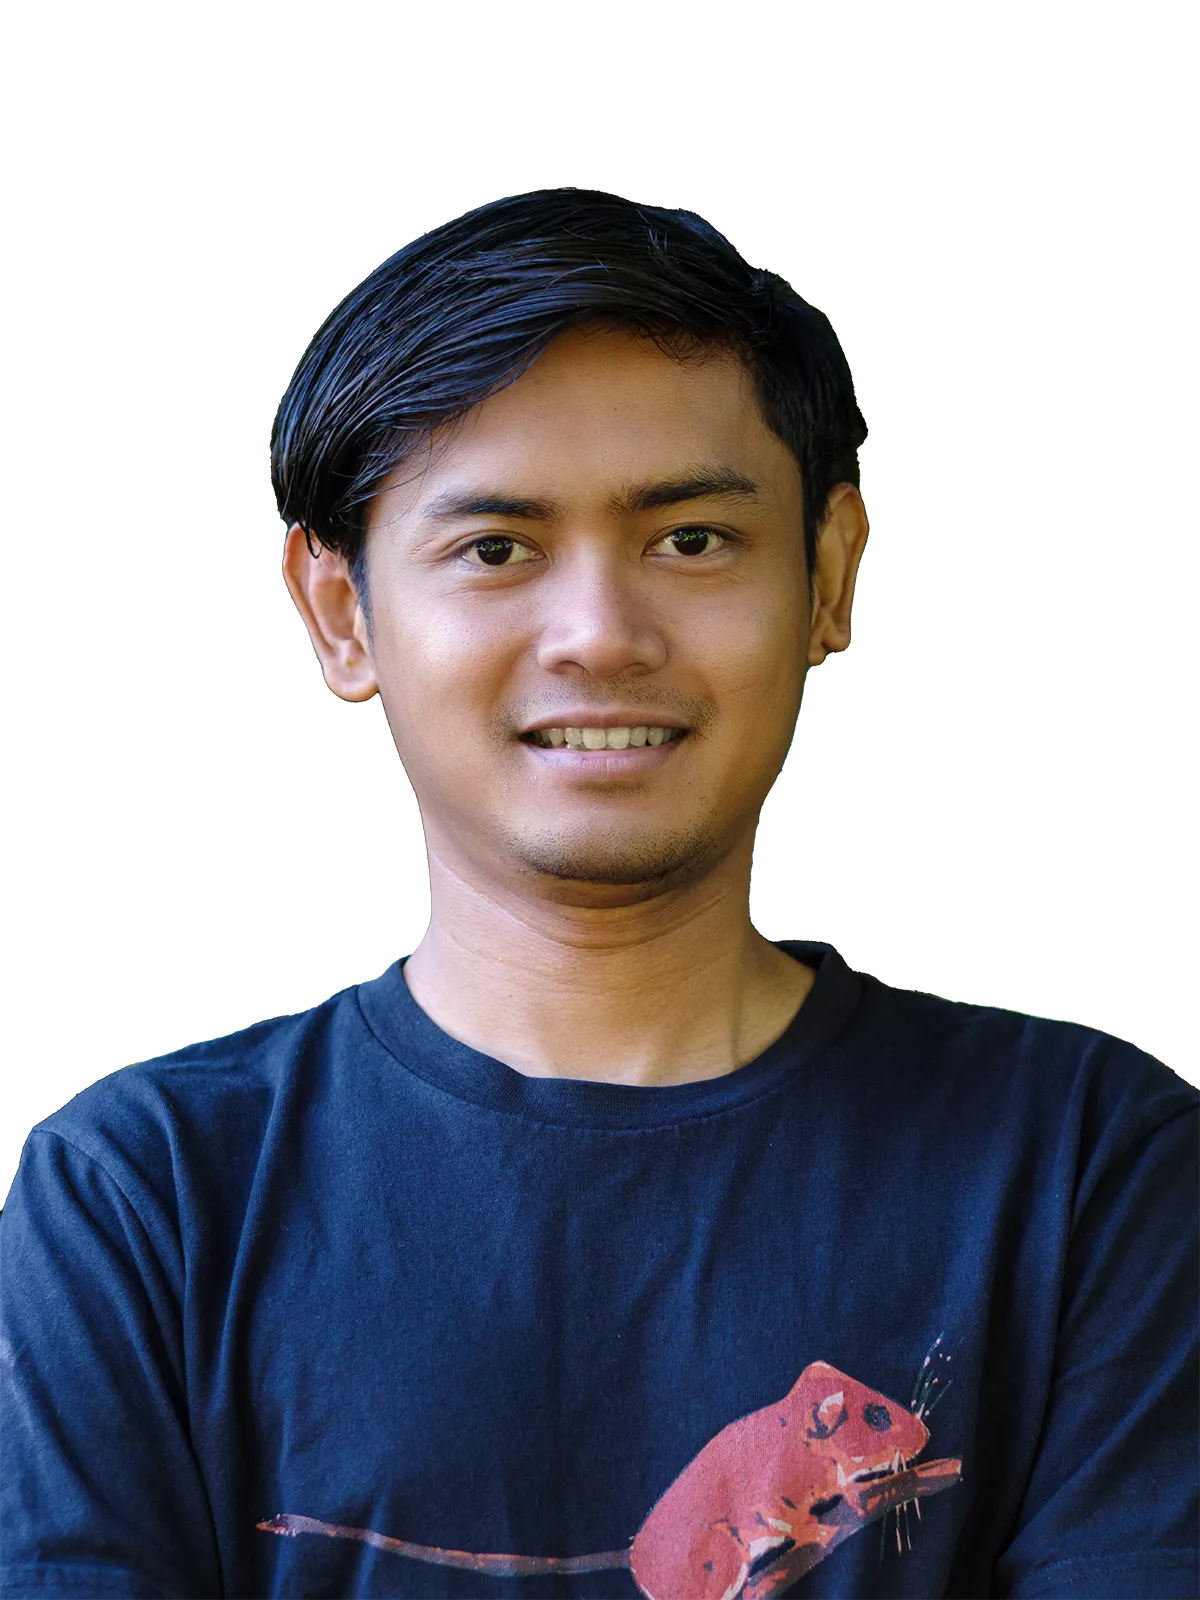
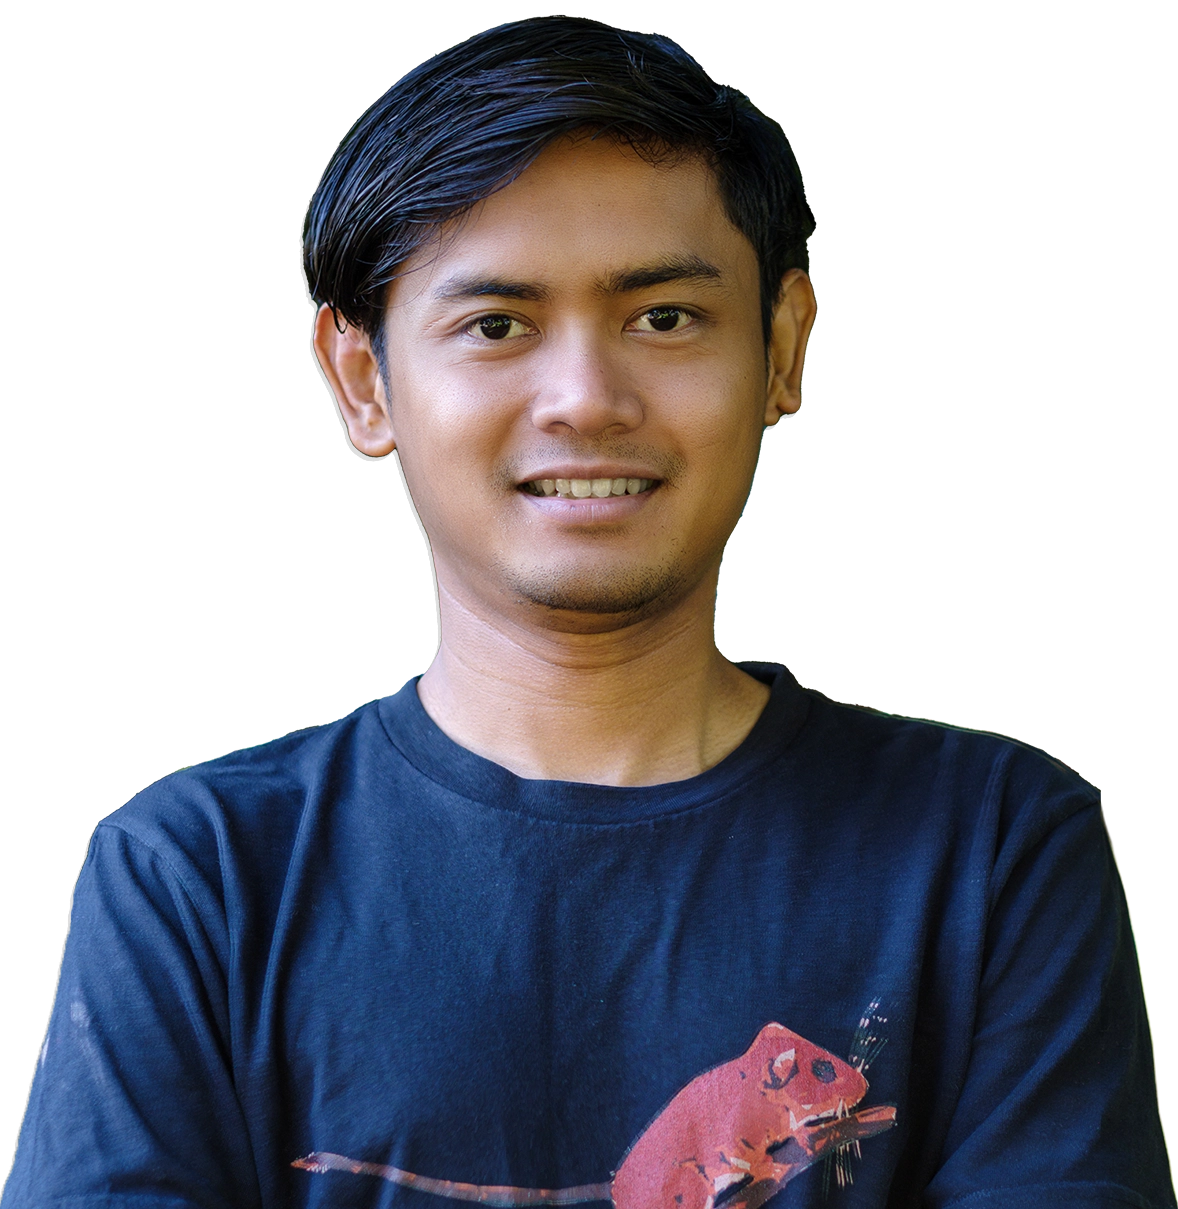
Update photo.

diff --git a/index.html b/index.html
@@ -130,11 +130,7 @@
             </p>
           </div>
           <div class="col-md-6 col-sm-12">
-            <img
-              class="img-fluid"
-              src="img/headshot-bw.webp"
-              alt="Heru Handika"
-            />
+            <img class="img-fluid" src="img/headshot.webp" alt="Heru Handika" />
           </div>
         </div>
       </div>
